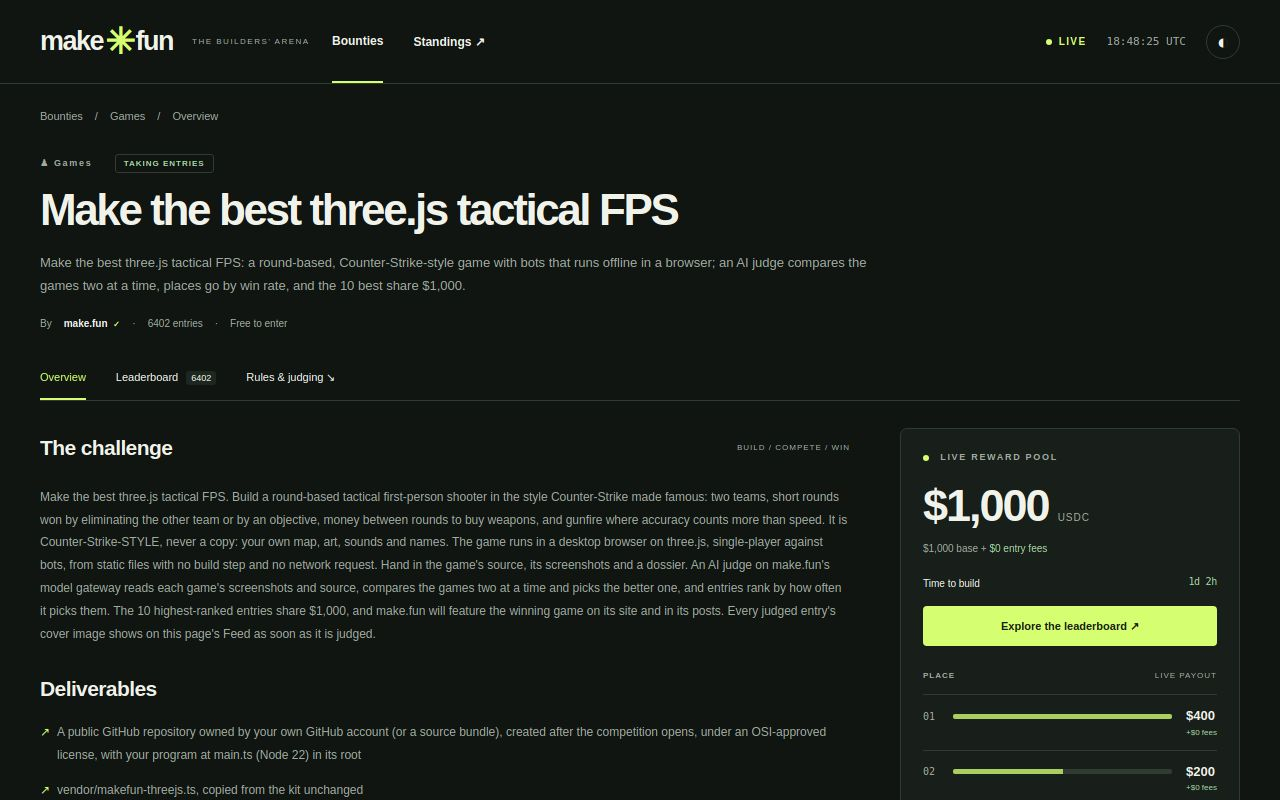
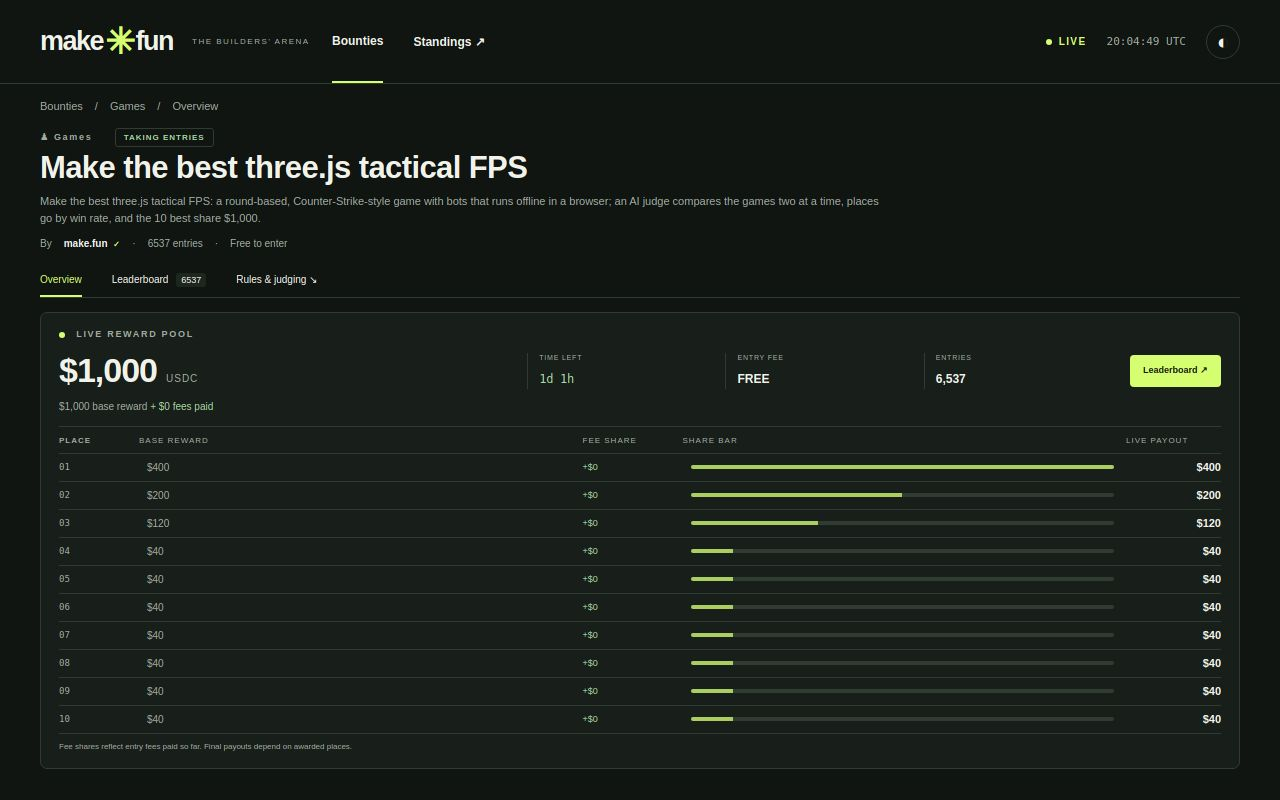
Polish for top 20: dense board + fee breakdowns

diff --git a/app/style.css b/app/style.css
@@ -1,3 +1,14 @@
 :root{color-scheme:dark;--bg:#101512;--panel:#181f1a;--panel2:#1d261f;--line:#303b32;--text:#f1f3eb;--muted:#a1aca1;--accent:#d5ff70;--ink:#15200e;--green:#a8d7a4;--red:#ff9790;--amber:#f2cd83}*{box-sizing:border-box}html{scroll-behavior:smooth}body{margin:0;background:var(--bg);color:var(--text);font:14px/1.5 Arial,Helvetica,sans-serif}a{color:inherit;text-decoration:none}button,input,select{font:inherit}button,a,input,select{-webkit-tap-highlight-color:transparent}button,select{cursor:pointer}button{color:var(--text);background:transparent;border:1px solid var(--line);padding:9px 14px;border-radius:5px}button:hover,a:hover{color:var(--accent)}button:disabled{opacity:.35;cursor:default}a:focus-visible,button:focus-visible,input:focus-visible,select:focus-visible{outline:2px solid var(--accent);outline-offset:4px}.skip{position:fixed;top:-70px;z-index:10;padding:10px;background:var(--accent);color:var(--ink)}.skip:focus{top:8px}header{height:84px;display:flex;align-items:center;gap:65px;padding:0 40px;border-bottom:1px solid var(--line)}.brand{display:flex;align-items:center;gap:2px;font-size:27px;font-weight:900;letter-spacing:-1.5px;white-space:nowrap}.brand>span{color:var(--accent);font-size:36px;line-height:1}.brand small{font-size:8px;font-weight:500;letter-spacing:1.5px;max-width:75px;line-height:1.7;margin-left:17px;color:var(--muted)}header nav{height:100%;display:flex;align-items:center;gap:30px;font-size:12px;font-weight:bold}header nav a{height:100%;display:flex;align-items:center}header nav .nav-board{border-bottom:2px solid var(--accent)}.header-right{display:flex;gap:20px;align-items:center;margin-left:auto}.live{color:var(--accent);font-size:10px;letter-spacing:1.4px;font-weight:bold;white-space:nowrap}.live:before,.dot{content:'';display:inline-block;width:6px;height:6px;background:var(--accent);border-radius:50%;margin-right:7px;vertical-align:middle}#clock{font:11px monospace;color:var(--muted)}#theme{width:34px;height:34px;border-radius:50%;padding:0;font-size:21px}main{max-width:1440px;margin:auto;padding:0 40px 60px}.hero{display:flex;justify-content:space-between;align-items:center;padding:33px 0 29px}.eyebrow{font-size:9px;font-weight:bold;letter-spacing:1.7px;color:var(--muted)}h1,h2,h3,p{margin:0}h1{font-size:49px;letter-spacing:-2.4px;line-height:1.06;margin:16px 0}h1>span{color:var(--accent)}.hero p{font-size:13px;color:var(--muted);margin-top:19px}.hero-mark{display:flex;flex-direction:column;align-items:center;justify-content:center;gap:12px;width:230px;font-size:140px;line-height:1;color:var(--accent)}.hero-mark span{font-size:8px;letter-spacing:1.4px;line-height:1.6;text-align:center;color:var(--text)}.stats{display:grid;grid-template-columns:repeat(4,1fr);border:1px solid var(--line);border-radius:7px;background:var(--panel)}.stats>div{padding:17px 23px;border-right:1px solid var(--line)}.stats>div:last-child{border:0}.stats small{display:block;font-size:9px;letter-spacing:1.4px;color:var(--muted);margin-bottom:5px}.stats strong{display:block;font-size:27px;letter-spacing:-.8px;line-height:1.3}.stats em{font-weight:normal;font-size:10px;letter-spacing:0;color:var(--muted);font-style:normal;margin-left:5px}.stats .time{font-size:23px;background:none;padding:0}.ticker{display:flex;align-items:center;gap:20px;padding:15px 0;border-bottom:1px solid var(--line);font-size:10px;min-height:47px}.ticker b{font-size:10px;font-weight:500}.ticker-event{color:var(--muted);white-space:nowrap;overflow:hidden;text-overflow:ellipsis}.ticker-event a{color:var(--text)}.ticker-end{margin-left:auto;font-size:8px;letter-spacing:1.1px;white-space:nowrap;color:var(--muted)}.workspace{display:grid;grid-template-columns:minmax(0,1fr) 256px;gap:26px;padding-top:26px}.section-title{display:flex;align-items:center;justify-content:space-between;margin-bottom:18px;gap:12px}.section-title h2{font-size:21px;letter-spacing:-.6px}.section-title h2>span{color:var(--accent);margin-left:16px}.section-title>span{font-size:10px;color:var(--muted)}.categories{display:flex;gap:7px;margin-bottom:16px;overflow:auto;scrollbar-width:none}.categories button{font-size:10px;border-radius:30px;padding:6px 13px;white-space:nowrap}.active{color:var(--ink)!important;background:var(--accent)!important;border-color:var(--accent)!important}.toolbar{display:flex;gap:10px;align-items:center;margin-bottom:15px}.search{display:flex;align-items:center;gap:8px;border:1px solid var(--line);background:var(--panel);padding:7px 12px;border-radius:5px;flex:1;min-width:100px}.search span{font-size:20px;color:var(--muted);line-height:1}input{width:100%;min-width:0;border:0;outline:none;background:transparent;color:var(--text);font-size:11px}input::placeholder{color:var(--muted)}.fee-pills{display:flex;border:1px solid var(--line);padding:3px;border-radius:5px}.fee-pills button{font-size:9px;text-transform:uppercase;padding:5px 8px;border:0;border-radius:3px}select{padding:9px 10px;color:var(--text);background:var(--panel);border:1px solid var(--line);border-radius:5px;font-size:10px}.cards{display:grid;grid-template-columns:repeat(2,minmax(0,1fr));gap:14px}.card{border:1px solid var(--line);background:var(--panel);border-radius:7px;padding:17px 18px 0;transition:border-color .15s}.card:hover{border-color:#6e825c}.card-top{display:flex;align-items:center;justify-content:space-between;gap:8px;margin-bottom:12px}.category{font-size:9px;color:var(--accent);letter-spacing:.4px}.serial{font:8px monospace;letter-spacing:1px;color:var(--muted)}.tag{font-size:7px;letter-spacing:.6px;background:var(--accent);color:var(--ink);padding:3px 6px;border-radius:2px}.card h3{font-size:18px;line-height:1.3;letter-spacing:-.4px;min-height:47px}.card h3 a{display:block}.card h3 span{color:var(--muted);font-size:15px}.card>p{color:var(--muted);font-size:10px;line-height:1.6;margin:8px 0 17px;display:-webkit-box;-webkit-line-clamp:2;-webkit-box-orient:vertical;overflow:hidden;min-height:32px}.pot-line{display:flex;align-items:center;gap:12px;margin-bottom:17px}.pot-line>strong{font-size:29px;letter-spacing:-1px}.pot-line>span{font-size:9px;color:var(--muted);line-height:1.6}.pot-line em{display:block;color:var(--green);font-style:normal;font-size:8px}.card-meta{display:flex;justify-content:space-between;gap:4px;align-items:center;font-size:9px;color:var(--muted)}.card-meta b{color:var(--green);font-size:8px;font-weight:500}.time{font:10px monospace;white-space:nowrap;letter-spacing:-.3px}.green{color:var(--green)}.red{color:var(--red)}.amber{color:var(--amber)}.progress{height:3px;background:var(--line);margin:11px 0 0;border-radius:2px;overflow:hidden}.progress i{display:block;height:100%;background:currentColor}.card-bottom{display:flex;justify-content:space-between;padding:11px 0;color:var(--muted);font-size:8px}.card-bottom a{color:var(--text)}.verified{font-size:8px;color:var(--accent);margin-left:3px}.panel{padding:19px;border:1px solid var(--line);background:var(--panel);border-radius:7px}.panel>.eyebrow{font-size:7px;letter-spacing:1px}.panel h2{font-size:19px;letter-spacing:-.5px;margin:8px 0 14px}.panel h2>span{float:right;color:var(--muted)}.builder{display:flex;align-items:center;gap:10px;padding:13px 0;border-top:1px solid var(--line)}.rank{font:9px monospace;color:var(--muted)}img,.avatar{border-radius:50%;object-fit:cover;background:var(--panel2);flex-shrink:0}.avatar{display:inline-flex;width:32px;height:32px;align-items:center;justify-content:center;font-size:10px;color:var(--accent);border:1px solid var(--line)}.builder img{width:30px;height:30px}.builder b{display:block;font-size:10px;max-width:130px;overflow:hidden;text-overflow:ellipsis}.builder small{display:block;color:var(--muted);font-size:8px;margin-top:2px}.arrow{margin-left:auto;color:var(--muted);font-size:12px}.manifesto{margin-top:18px;padding:20px;background:var(--accent);color:var(--ink);border-radius:7px;overflow:hidden;position:relative}.manifesto>span{font-size:7px;letter-spacing:1px}.manifesto h2{font-size:31px;line-height:1.04;letter-spacing:-1.2px;margin:20px 0 12px}.manifesto p{font-size:10px;line-height:1.6;max-width:185px}.manifesto a{display:block;font-size:9px;font-weight:bold;margin-top:22px;position:relative;z-index:1}.manifesto a:hover{color:var(--ink);text-decoration:underline}.graphic{font-size:120px;line-height:.9;font-weight:bold;text-align:right;opacity:.15;margin-top:-45px}.load-more{display:block;width:100%;margin:22px 0 0;font-size:11px}.load-more[hidden]{display:none}footer{padding:25px 40px;border-top:1px solid var(--line);display:flex;align-items:center;gap:30px;color:var(--muted);font-size:10px}footer .brand{font-size:20px;color:var(--text)}footer .brand span{font-size:26px}footer>span:last-child{margin-left:auto}.breadcrumbs{display:flex;gap:12px;padding-top:24px;color:var(--muted);font-size:11px}.detail-head{max-width:940px;padding:32px 0 26px}.detail-head h1{font-size:44px;max-width:850px;margin:17px 0}.detail-head>p{font-size:13px;color:var(--muted);max-width:850px;line-height:1.8}.status{font-size:8px;letter-spacing:1px;margin-left:18px;padding:4px 8px;border:1px solid var(--line);border-radius:3px}.sponsor{display:flex;gap:12px;align-items:center;margin-top:19px;font-size:10px;color:var(--muted)}.sponsor b{color:var(--text)}.tabs{display:flex;gap:30px;border-bottom:1px solid var(--line);margin-bottom:27px}.tabs a{padding:12px 0;font-size:11px;border-bottom:2px solid transparent}.tabs a.active{color:var(--accent)!important;background:transparent!important;border-bottom-color:var(--accent)!important}.tabs a>span{font-size:9px;background:var(--panel2);padding:2px 5px;border-radius:3px;margin-left:5px}.detail-grid{display:grid;grid-template-columns:minmax(0,1fr) 340px;gap:50px}.prose{font-size:12px;line-height:1.9;color:var(--muted)}.prose h2{font-size:21px;letter-spacing:-.6px;margin:24px 0 12px;color:var(--text)}.prose h3{color:var(--text);margin:20px 0 10px}.prose p{margin-bottom:12px}.prose .section-title h2{margin:0}.prose .section-title>span{font-size:8px;letter-spacing:1px}.bullet{padding-left:17px;position:relative}.bullet:before{content:'↗';position:absolute;left:0;color:var(--accent)}code{font:11px monospace;background:var(--panel);padding:2px 4px;border-radius:3px}.reward-panel{padding:22px;background:var(--panel);border:1px solid var(--line);border-radius:7px}.big-pot{font-size:45px;font-weight:bold;letter-spacing:-2px;margin:8px 0 1px}.big-pot>span{font-size:10px;color:var(--muted);letter-spacing:1px;margin-left:9px;font-weight:normal}.reward-panel>p{font-size:10px;color:var(--muted)}.reward-panel>p b{color:var(--green);font-weight:normal}.deadline-row{display:flex;justify-content:space-between;margin:20px 0 15px;font-size:10px}.primary{display:block;text-align:center;padding:12px;background:var(--accent);color:var(--ink);border-radius:4px;font-weight:bold;font-size:11px}.primary:hover{color:var(--ink);filter:brightness(1.07)}.reward-label{display:flex;justify-content:space-between;color:var(--muted);font-size:8px;letter-spacing:1px;margin-top:24px;padding-bottom:12px;border-bottom:1px solid var(--line)}.reward{display:grid;grid-template-columns:20px 1fr auto;gap:10px;align-items:center;border-bottom:1px solid var(--line);padding:11px 0;position:relative}.reward>span{font:10px monospace;color:var(--muted)}.reward>div{height:5px;background:var(--line);border-radius:2px;overflow:hidden;margin-right:4px}.reward i{display:block;height:100%;background:var(--accent);opacity:.75}.reward strong{font-size:13px}.reward small{grid-column:3;font-size:8px;color:var(--green);margin-top:-9px;text-align:right}.reward-note{display:block;font-size:9px;color:var(--muted);margin-top:15px}.dates{margin-top:18px}.dates h3{font-size:14px;margin-bottom:20px}.dates>small{font-size:8px;letter-spacing:1px;color:var(--muted)}.dates p{font-size:11px;margin:4px 0 15px}.standings{max-width:1000px;margin:auto}.standings>.section-title{margin:28px 0 20px}.standings h2{font-size:28px}.standings .eyebrow{margin-bottom:7px;font-size:8px}.phase-switch{display:flex;border:1px solid var(--line);padding:3px;border-radius:5px}.phase-switch a{padding:6px 12px;font-size:10px;border-radius:3px}.board-note{display:flex;align-items:center;padding:13px 16px;background:var(--panel);border:1px solid var(--line);border-radius:5px;color:var(--muted);font-size:10px}.board-note>span:last-child{margin-left:auto;color:var(--accent)}.leader-label{display:grid;grid-template-columns:65px 1fr 150px;padding:20px 16px 10px;font-size:8px;letter-spacing:1px;color:var(--muted)}.leader-label>span:last-child{text-align:right}.leader-row{display:grid;grid-template-columns:65px minmax(0,1fr) 150px;align-items:center;padding:19px 16px;border-bottom:1px solid var(--line)}.place{font:18px monospace;color:var(--muted)}.place.podium{color:var(--accent)}.entrant{display:flex;align-items:center;gap:14px;min-width:0}.entrant>div{min-width:0}.entrant a{font-size:12px;font-weight:bold}.entrant p{font-size:10px;color:var(--muted);margin-top:5px;white-space:nowrap;overflow:hidden;text-overflow:ellipsis;max-width:580px}.entrant small{font-size:8px;color:var(--muted)}.leader-row>strong{text-align:right;font:19px monospace;letter-spacing:-.5px}.leader-row>strong small{display:block;font:8px Arial;color:var(--muted);letter-spacing:0;margin-top:5px}.pagination{display:flex;justify-content:space-between;align-items:center;gap:12px;padding-top:23px;font-size:10px;color:var(--muted)}.pagination button{font-size:10px}.profile-head{display:flex;gap:25px;align-items:center;padding:45px 0}.profile-head>img,.profile-head>.avatar{width:90px;height:90px;font-size:24px}.profile-head h1{margin:10px 0;font-size:40px}.profile-head p{font-size:12px;color:var(--muted)}.profile-head+.stats{margin-bottom:40px}.solution{display:flex;justify-content:space-between;gap:25px;border-bottom:1px solid var(--line);padding:25px 0}.solution h3{font-size:18px;margin:8px 0}.solution p{font-size:12px;color:var(--muted);margin-bottom:8px}.solution small{font-size:10px;color:var(--muted)}.solution>div:last-child{min-width:140px;text-align:right}.solution strong{display:block;font:22px monospace;margin-top:22px}.solution>div>a{display:block;font-size:10px;margin-top:12px;color:var(--accent)}.empty,.loading{padding:80px 20px;text-align:center;color:var(--muted)}.empty h1{font-size:32px}.empty p{margin:15px}.loading>span{display:block;color:var(--accent);font-size:60px;margin-top:25px}.empty{grid-column:1/-1}html[data-theme=light]{color-scheme:light;--bg:#f4f4ed;--panel:#fffef8;--panel2:#eceee3;--line:#d4d8c9;--text:#19251b;--muted:#647060;--accent:#416b16;--ink:#fff;--green:#416e34;--red:#b13c34;--amber:#90630d}html[data-theme=light] .manifesto{background:#d5f59a;color:#17250d}html[data-theme=light] .tag,html[data-theme=light] .primary,html[data-theme=light] button.active{background:#d5f59a!important;color:#17250d!important}html[data-theme=light] .hero-mark{color:#9bc84c}@media(min-width:1450px){header,footer{padding-left:max(40px,calc((100vw - 1360px)/2));padding-right:max(40px,calc((100vw - 1360px)/2))}}@media(max-width:1050px){header{gap:35px;padding:0 24px}main{padding:0 24px 40px}.workspace{grid-template-columns:minmax(0,1fr) 230px;gap:18px}.card{padding:14px 14px 0}.card h3{font-size:16px}.toolbar{flex-wrap:wrap}.search{flex-basis:40%}.stats>div{padding:15px}.stats strong{font-size:23px}.stats em{display:block;margin:0}.detail-grid{gap:26px;grid-template-columns:minmax(0,1fr) 310px}}@media(max-width:780px){header{height:70px;gap:30px}.brand small{display:none}.header-right{gap:10px}#clock{display:none}.hero h1{font-size:41px}.hero-mark{font-size:130px;width:160px}.workspace{grid-template-columns:1fr}aside#sidebar{display:grid;grid-template-columns:1fr 1fr;gap:16px}.manifesto{margin-top:0}.stats strong{font-size:22px}.stats .time{font-size:18px}.detail-head h1{font-size:36px}.detail-grid{grid-template-columns:1fr}.detail-grid>aside{grid-row:1;display:grid;grid-template-columns:1fr 1fr;gap:15px;align-items:start}.dates{margin-top:0}.reward:nth-of-type(n+9){display:none}.ticker-end{display:none}footer{padding:22px 24px}footer>span:last-child{display:none}}@media(max-width:520px){header{padding:0 18px;gap:22px;height:65px}.brand{font-size:23px}.brand>span{font-size:30px}header nav{gap:16px;font-size:10px}header nav a:last-child{display:none}.header-right>.live{font-size:8px}#theme{width:28px;height:28px;font-size:18px}main{padding:0 18px 35px}.hero{padding:28px 0 25px}.hero h1{font-size:37px;letter-spacing:-1.7px;margin-top:16px}.eyebrow{font-size:7px;letter-spacing:1.2px}.hero p{font-size:11px;margin-top:15px}.hero-mark{display:none}.stats{grid-template-columns:1fr 1fr}.stats>div{padding:14px 15px}.stats>div:nth-child(2){border-right:0}.stats>div:nth-child(-n+2){border-bottom:1px solid var(--line)}.stats small{font-size:8px;letter-spacing:1px}.stats strong{font-size:24px}.stats em{display:inline;font-size:8px;margin-left:4px}.stats .time{font-size:20px}.ticker{gap:10px;flex-wrap:wrap;padding:13px 0;font-size:9px}.ticker .live{font-size:8px}.ticker b{font-size:9px}.ticker-event{flex-basis:100%;font-size:9px}.workspace{padding-top:23px}.section-title h2{font-size:20px}.section-title>span{font-size:8px}.section-title h2>span{margin-left:6px}.categories{gap:6px;margin-bottom:13px}.categories button{font-size:10px;padding:6px 12px}.toolbar{gap:8px;margin-bottom:13px}.search{flex-basis:100%;padding:11px 12px}.fee-pills{margin-right:auto}select{padding:9px 12px}.cards{grid-template-columns:1fr;gap:14px}.card{padding:18px 18px 0}.card h3{font-size:20px;min-height:0}.card>p{font-size:11px;margin:10px 0 17px}.category{font-size:10px}.serial{font-size:8px}.pot-line>strong{font-size:32px}.card-meta{font-size:10px}.card .time{font-size:10px}.card-bottom{font-size:9px;padding:13px 0}.pot-line>span{font-size:10px}.pot-line em{font-size:9px}aside#sidebar{grid-template-columns:1fr}.manifesto{display:none}.builder b{font-size:12px}.builder small{font-size:10px}.builder{padding:14px 0}footer{gap:20px;padding:20px 18px;font-size:8px}.breadcrumbs{font-size:9px;padding-top:20px}.detail-head{padding:25px 0 20px}.detail-head h1{font-size:34px;letter-spacing:-1.3px;line-height:1.1;margin:16px 0}.detail-head>p{font-size:11px;line-height:1.75}.sponsor{flex-wrap:wrap;font-size:9px;gap:8px}.tabs{gap:24px;margin-bottom:20px}.tabs a{font-size:10px}.tabs a:last-child{margin-left:auto}.tabs a>span{font-size:8px}.detail-grid>aside{display:block}.reward-panel{padding:20px}.dates{margin-top:15px}.prose{font-size:12px}.prose .section-title>span{display:none}.standings>.section-title{align-items:flex-start;margin-top:24px}.standings h2{font-size:26px}.standings .eyebrow{font-size:7px;max-width:150px}.phase-switch a{padding:6px 8px;font-size:8px}.board-note{padding:11px 10px;font-size:8px;gap:0}.board-note>span:last-child{font-size:8px;white-space:nowrap}.leader-label{grid-template-columns:35px 1fr 80px;padding:18px 0 9px;font-size:7px}.leader-row{grid-template-columns:35px minmax(0,1fr) 80px;padding:17px 0}.place{font-size:16px}.entrant{gap:9px}.entrant img,.entrant .avatar{width:28px;height:28px}.entrant a{font-size:10px}.entrant p{font-size:9px;max-width:165px;margin-top:4px}.leader-row>strong{font-size:17px}.leader-row>strong small{font-size:7px;margin-top:5px}.pagination{font-size:8px}.pagination button{font-size:9px;padding:7px 9px}.profile-head{padding:30px 0;gap:16px}.profile-head h1{font-size:28px;letter-spacing:-1px}.profile-head>img,.profile-head>.avatar{width:64px;height:64px}.profile-head p{font-size:10px}.solution{display:block;padding:21px 0}.solution h3{font-size:17px}.solution>div:last-child{display:flex;justify-content:space-between;align-items:center;text-align:left}.solution strong{font-size:18px;margin-top:12px}.solution p{font-size:11px}.profile-head+.stats{margin-bottom:28px}}@media(prefers-reduced-motion:reduce){html{scroll-behavior:auto}*{transition:none!important}}
 /* Keep the hero mark caption clear of the graphic. */
 .hero-mark{gap:24px;font-size:132px}
+.board-head{display:flex;align-items:center;justify-content:space-between;padding:13px 0 10px}.board-head h1{font-size:23px;letter-spacing:0;margin:5px 0 0}.board-head-note{font-size:10px;color:var(--muted)}
+.cards{display:block}
+.stats{border-radius:4px}.stats>div{padding:8px 15px}.stats small{font-size:7px;margin-bottom:2px}.stats strong{font-size:18px;line-height:1.2}.stats em{font-size:8px}.stats .time{font-size:14px}
+.ticker{min-height:31px;padding:7px 0;gap:13px;font-size:9px}.ticker-end{font-size:7px}
+.board-work{padding-top:10px}.board-tools>.section-title{margin:0 0 7px}.board-tools .section-title h2{font-size:15px}.board-tools .section-title>span{font-size:9px}.board-tools>.search{height:31px;margin-bottom:7px;padding-top:4px;padding-bottom:4px}.board-tools .toolbar{margin:0 0 5px;display:flex;align-items:center;justify-content:space-between}.board-tools .categories{margin:0;gap:5px;max-width:70%;overflow-x:auto}.board-tools .categories button{padding:4px 9px;font-size:9px}.filter-actions{display:flex;gap:7px;align-items:center}.filter-actions select{padding:6px 8px;font-size:9px}.filter-actions .fee-pills{padding:2px}.filter-actions .fee-pills button{padding:4px 7px;font-size:8px}
+.table-label,.board-row{display:grid;grid-template-columns:112px minmax(220px,1fr) 170px 90px 75px 22px;align-items:center;gap:14px}.table-label{padding:7px 12px;border-bottom:1px solid var(--line);font-size:7px;letter-spacing:1px;color:var(--muted)}.table-label span:nth-child(n+3){text-align:right}.board-row{min-height:48px;padding:5px 12px;border-bottom:1px solid var(--line);background:var(--panel);transition:background .15s}.board-row:hover{background:var(--panel2)}.row-pot{font-size:16px;color:var(--green);white-space:nowrap}.row-pot small,.row-fee small,.row-entries small,.row-title small{display:block;font-size:8px;font-weight:normal;color:var(--muted);margin-top:2px}.row-title{min-width:0}.row-title b{display:block;font-size:11px;white-space:nowrap;overflow:hidden;text-overflow:ellipsis}.row-title small{white-space:nowrap;overflow:hidden;text-overflow:ellipsis}.row-time{text-align:right}.row-time .time{font-size:9px}.row-time .progress{display:block;height:3px;margin:4px 0 0 auto;width:88px;background:var(--line)}.row-time .progress b{display:block;height:100%;background:var(--accent)}.row-time .progress b.red{background:var(--red)}.row-time .progress b.amber{background:var(--amber)}.row-fee,.row-entries{text-align:right;font-size:10px;white-space:nowrap}.row-arrow{color:var(--muted);text-align:right;font-size:12px}.board-work>.load-more{padding:8px;margin-top:10px;font-size:9px}.board-work .empty{padding:25px}
+.detail-head{padding:16px 0 13px}.detail-head h1{font-size:31px;letter-spacing:-.6px;margin:8px 0}.detail-head>p{font-size:11px;line-height:1.55}.sponsor{margin-top:9px}.breadcrumbs{padding-top:14px}.tabs{margin-bottom:14px}.tabs a{padding:8px 0;font-size:10px}
+.reward-overview{padding:15px 18px;margin-bottom:17px}.reward-summary{display:grid;grid-template-columns:minmax(220px,1fr) 1.3fr auto;align-items:center;gap:20px;padding-bottom:12px;border-bottom:1px solid var(--line)}.reward-summary .big-pot{font-size:34px;letter-spacing:-1px;margin:3px 0}.fee-equation{font-size:10px;color:var(--muted)}.fee-equation b{color:var(--green);font-weight:normal}.quick-facts{display:grid;grid-template-columns:repeat(3,minmax(70px,1fr));gap:12px}.quick-facts>div{border-left:1px solid var(--line);padding-left:11px}.quick-facts small{display:block;font-size:7px;letter-spacing:.8px;color:var(--muted);margin-bottom:4px}.quick-facts strong,.quick-facts .time{font-size:12px}.reward-summary .primary{padding:9px 13px;white-space:nowrap;font-size:9px}.reward-overview .reward-label{display:grid;grid-template-columns:80px 1fr 100px 1fr 95px;align-items:center;margin-top:8px;padding-bottom:6px}.reward-overview .reward{display:grid;grid-template-columns:80px 1fr 100px 1fr 95px;padding:5px 0;gap:8px;min-height:28px}.reward-overview .reward>span{font-size:9px}.reward-overview .reward-base{font-size:10px;font-weight:normal;color:var(--muted)}.reward-overview .reward-fee{grid-column:auto;margin:0;text-align:left;font-size:9px;color:var(--green)}.reward-overview .reward-bar{height:4px;background:var(--line);overflow:hidden}.reward-overview .reward-bar i{display:block;height:100%;background:var(--accent)}.reward-overview .reward>strong:last-child{text-align:right;font-size:11px}.reward-overview .reward-note{margin-top:7px;font-size:8px}.detail-grid{grid-template-columns:minmax(0,1fr) 250px;gap:30px}.detail-grid .prose h2{margin-top:10px}
+.leader-row{padding:11px 14px}.leader-label{padding:12px 14px 7px}.standings>.section-title{margin:17px 0 12px}.standings h2{font-size:23px}.entrant{gap:10px}
+@media(max-width:780px){.table-label,.board-row{grid-template-columns:85px minmax(150px,1fr) 115px 65px 54px;gap:8px}.table-label span:last-child,.row-arrow{display:none}.row-pot{font-size:13px}.row-time .progress{width:70px}.reward-summary{grid-template-columns:1fr 1fr}.reward-summary .primary{justify-self:start}.detail-grid{grid-template-columns:1fr}.detail-grid>aside{grid-row:auto;display:block}.reward-overview .reward-label,.reward-overview .reward{grid-template-columns:58px 1fr 70px 1fr 75px}.reward:nth-of-type(n+9){display:grid}}
+@media(max-width:520px){.board-head{padding:10px 0 8px}.board-head h1{font-size:20px}.board-head-note{font-size:8px}.stats>div{padding:8px 9px}.stats strong{font-size:16px}.stats em{display:block;margin:2px 0 0}.stats .time{font-size:12px}.ticker{font-size:8px}.ticker-end{display:none}.board-work{padding-top:8px}.board-tools>.section-title h2{font-size:14px}.board-tools>.search{height:34px}.board-tools .toolbar{align-items:flex-start;flex-direction:column;gap:6px}.board-tools .categories{max-width:100%;width:100%}.filter-actions{width:100%;justify-content:space-between}.table-label,.board-row{grid-template-columns:65px minmax(100px,1fr) 75px 45px;gap:5px}.table-label span:nth-child(5),.row-entries{display:none}.table-label{padding:6px 5px;font-size:6px}.board-row{padding:5px;min-height:48px}.row-pot{font-size:11px}.row-pot small{font-size:7px}.row-title b{font-size:9px}.row-title small{font-size:7px}.row-time .time{font-size:8px}.row-time .progress{width:56px}.row-fee{font-size:8px}.row-fee small{font-size:6px}.detail-head{padding:14px 0 10px}.detail-head h1{font-size:25px}.detail-head>p{font-size:10px}.sponsor{font-size:8px}.tabs{gap:18px}.reward-overview{padding:12px 10px}.reward-summary{grid-template-columns:1fr;gap:10px}.reward-summary .big-pot{font-size:30px}.quick-facts{gap:5px}.quick-facts>div{padding-left:7px}.quick-facts .time,.quick-facts strong{font-size:10px}.reward-summary .primary{justify-self:stretch}.reward-overview .reward-label,.reward-overview .reward{grid-template-columns:45px 1fr 65px 1fr 65px;gap:4px}.reward-overview .reward-label{font-size:6px}.reward-overview .reward>strong:last-child{font-size:9px}.reward-overview .reward-fee,.reward-overview .reward-base{font-size:8px}.detail-grid{gap:15px}.detail-grid .prose{font-size:11px}.leader-label{grid-template-columns:30px 1fr 72px;padding:10px 0 7px}.leader-row{grid-template-columns:30px minmax(0,1fr) 72px;padding:10px 0}.entrant{gap:7px}.entrant img,.entrant .avatar{width:25px;height:25px}.entrant a{font-size:9px}.entrant p{font-size:8px}.leader-row>strong{font-size:14px}}

diff --git a/app/main.js b/app/main.js
@@ -26,18 +26,18 @@ function renderCards() {
  items.sort((a,b)=>sort==='pot'?pot(b)-pot(a):sort==='closing'?Date.parse(a.deadline)-Date.parse(b.deadline):sort==='entries'?b.submissionCount-a.submissionCount:(b.slug==='makefun-frontend-01')-(a.slug==='makefun-frontend-01')||pot(b)-pot(a));
  document.querySelector('#results-count').textContent=`${items.length} live bounties`;
  const liveItems=boardItems.filter(open), max=liveItems.length?Math.max(...liveItems.map(pot)):0;
- document.querySelector('#cards').innerHTML=items.slice(0,page*6).map((b,i)=>card(b,i,max)).join('')||'<div class="empty">No bounties match. Try another category or search.</div>';
+ document.querySelector('#cards').innerHTML=items.slice(0,page*20).map((b,i)=>`<a class="board-row" href="${url(b)}"><strong class="row-pot">${money(pot(b))}<small>${Number(b.entryFeesUsd)>0?'+'+money(b.entryFeesUsd)+' fees':'live pot'}</small></strong><span class="row-title"><b>${esc(b.title)}</b><small>${esc(b.category)} · ${esc(b.summary||'Live competition')}</small></span><span class="row-time"><span>${timer(b.deadline)}</span><i class="progress"><b class="${urgency(b.deadline)}" style="width:${Math.max(2,Math.min(100,(Date.now()-Date.parse(b.publishedAt))/(Date.parse(b.deadline)-Date.parse(b.publishedAt))*100))}%"></b></i></span><span class="row-fee">${Number(b.entryFeeUsd)?money(b.entryFeeUsd):'FREE'}<small>entry fee</small></span><span class="row-entries">${Number(b.submissionCount||0).toLocaleString()}<small>entries</small></span><span class="row-arrow">↗</span></a>`).join('')||'<div class="empty">No bounties match. Try another category or search.</div>';
  document.querySelector('#more').hidden=items.length<=page*6;
 }
 async function board() {
  const data=await get('/competitions?status=open&activity=times&limit=100'); boardItems=data.items;
  while(data.next_cursor){const next=await get('/competitions?status=open&activity=times&limit=100&cursor='+encodeURIComponent(data.next_cursor));boardItems.push(...next.items);data.next_cursor=next.next_cursor;}
- return `<section class="hero"><div><div class="eyebrow"><span class="dot"></span> THE OPEN COMPETITION NETWORK</div><h1>Good ideas deserve<br><span>a bigger arena.</span></h1><p>Pick a challenge. Build your best. Let the work win.</p></div><div class="hero-mark" aria-hidden="true">✳<span>MAKE SOMETHING<br>THAT MATTERS.</span></div></section>${stats(boardItems)}<div id="ticker" class="ticker"><span class="live">LIVE ACTIVITY</span><span>Reading the latest entries…</span></div><div class="workspace"><section><div class="section-title"><h2>Find your next challenge</h2><span id="results-count"></span></div><div class="categories">${['All','Code','Games','Growth','Trading','Forecasting','Security','Automation'].map(c=>`<button data-category="${c}" class="${filter===c?'active':''}">${c}</button>`).join('')}</div><div class="toolbar"><label class="search"><span>⌕</span><input id="search" type="search" placeholder="Search bounties, skills…" value="${esc(search)}" aria-label="Search bounties"></label><div class="fee-pills">${['all','free','paid'].map(f=>`<button data-fee="${f}" class="${feeFilter===f?'active':''}">${f}</button>`).join('')}</div><select id="sort" aria-label="Sort bounties"><option value="featured">Featured first</option><option value="pot">Largest pot</option><option value="closing">Closing soon</option><option value="entries">Most entries</option></select></div><div class="cards" id="cards"></div><button class="load-more" id="more">Show more bounties ↓</button></section><aside id="sidebar"><div class="panel"><div class="eyebrow">THE PEOPLE BEHIND THE BUILDS</div><h2>Top builders <span>↗</span></h2><div id="builders">Loading public records…</div></div><div class="manifesto"><span>01 — THE MAKE.FUN WAY</span><h2>Less talk.<br>More shipped.</h2><p>Real challenges. Transparent scores. Rewards for work that stands out.</p><a href="#/bounty/makefun-frontend-01">Explore the frontend challenge ↗</a><div class="graphic">↗</div></div></aside></div>`;
+ return `<section class="board-head"><div><div class="eyebrow"><span class="dot"></span> LIVE COMPETITIONS</div><h1>Open bounties</h1></div><span class="board-head-note">Build in public. Win on merit.</span></section>${stats(boardItems)}<div id="ticker" class="ticker"><span class="live">LIVE ACTIVITY</span><span>Reading the latest entries…</span></div><section class="board-work"><div class="board-tools"><div class="section-title"><h2>Taking entries</h2><span id="results-count"></span></div><label class="search"><span>⌕</span><input id="search" type="search" placeholder="Search bounties, skills…" value="${esc(search)}" aria-label="Search bounties"></label><div class="toolbar"><div class="categories">${['All','Code','Games','Growth','Trading','Forecasting','Security','Automation'].map(c=>`<button data-category="${c}" class="${filter===c?'active':''}">${c}</button>`).join('')}</div><div class="filter-actions"><div class="fee-pills">${['all','free','paid'].map(f=>`<button data-fee="${f}" class="${feeFilter===f?'active':''}">${f}</button>`).join('')}</div><select id="sort" aria-label="Sort bounties"><option value="featured">Featured</option><option value="pot">Largest pot</option><option value="closing">Closing soon</option><option value="entries">Most entries</option></select></div></div></div><div class="table-label"><span>LIVE POT</span><span>BOUNTY</span><span>TIME LEFT</span><span>ENTRY FEE</span><span>ENTRIES</span><span></span></div><div class="cards" id="cards"></div><button class="load-more" id="more">Show more bounties ↓</button></section>`;
 }
 async function extras(token) {
  const results=await Promise.allSettled([get('/rankings?limit=5'),get('/activity/entries')]);
  if(token!==generation)return;
- if(results[0].status==='fulfilled')document.querySelector('#builders').innerHTML=results[0].value.items.map((p,i)=>`<a class="builder" href="${profile(p.handle)}"><span class="rank">${String(i+1).padStart(2,'0')}</span>${avatar(p)}<span><b>${esc(p.handle)}</b><small>${p.record.competitions_won} wins · ${money(p.record.prize_usd)} won</small></span><span class="arrow">↗</span></a>`).join('');
+ if(results[0].status==='fulfilled'&&document.querySelector('#builders'))document.querySelector('#builders').innerHTML=results[0].value.items.map((p,i)=>`<a class="builder" href="${profile(p.handle)}"><span class="rank">${String(i+1).padStart(2,'0')}</span>${avatar(p)}<span><b>${esc(p.handle)}</b><small>${p.record.competitions_won} wins · ${money(p.record.prize_usd)} won</small></span><span class="arrow">↗</span></a>`).join('');
  if(results[1].status==='fulfilled'){const a=results[1].value,e=a.entries[0];document.querySelector('#ticker').innerHTML=`<span class="live">LIVE ACTIVITY</span><b>${a.total}${a.total>=100?'+':''} entries in the last hour</b>${e?`<span class="ticker-event"><a href="${profile(e.handle)}">@${esc(e.handle)}</a> entered <a href="#/bounty/${esc(e.competition.slug)}">${esc(e.competition.title)} ↗</a></span>`:''}<span class="ticker-end">THE ARENA NEVER SLEEPS</span>`;}
 }
 function markdown(text) {
@@ -49,7 +49,7 @@ function bountyHeader(b, active) {
 async function bounty(slug) {
  const b=await bountyData(slug);
  const rewards=b.rewardsNow||Object.entries(b.rewards||{}).map(([place,base])=>({place,baseUsd:base,feeShareUsd: Number(base)/Number(b.rewardAmount)*Number(b.entryFeesUsd||0),amountUsd:Number(base)/Number(b.rewardAmount)*pot(b)}));
- return bountyHeader(b,'overview')+`<div class="detail-grid"><article class="prose"><div class="section-title"><h2>The challenge</h2><span>BUILD / COMPETE / WIN</span></div>${markdown(b.description)}<section id="rules"><h2>Rules & judging</h2><p>${esc(b.resolution?.summary||'See the challenge requirements above.')}</p>${(b.resolution?.criteria||[]).map(c=>`<p class="bullet">${esc(c)}</p>`).join('')}<h3>How places are decided</h3><p>${esc(b.resolution?.tieBreak||'The competition’s published scoring rules apply.')}</p></section></article><aside><section class="reward-panel"><div class="eyebrow"><span class="dot"></span> LIVE REWARD POOL</div><div class="big-pot">${money(pot(b))}<span>USDC</span></div><p>${money(b.rewardAmount)} base + <b>${money(b.entryFeesUsd)} entry fees</b></p><div class="deadline-row"><span>${open(b)?'Time to build':'Deadline passed'}</span>${timer(b.deadline)}</div><a class="primary" href="${url(b)}/leaderboard">Explore the leaderboard ↗</a><div class="reward-label"><b>PLACE</b><span>LIVE PAYOUT</span></div>${rewards.map(r=>`<div class="reward"><span>${String(r.place).padStart(2,'0')}</span><div><i style="width:${Math.max(5,Number(r.amountUsd)/Number(rewards[0]?.amountUsd)*100)}%"></i></div><strong>${money(r.amountUsd)}</strong><small>+${money(r.feeShareUsd)} fees</small></div>`).join('')}<small class="reward-note">Includes the current fee split. Final payouts depend on awarded places.</small></section><section class="panel dates"><h3>Competition timeline</h3><small>OPENED</small><p>${date(b.publishedAt)}</p><small>ENTRY DEADLINE</small><p>${date(b.deadline)}</p><small>STATUS</small><p>${open(b)?'Open · accepting entries':b.status==='resolved'?'Resolved':'Closed · awaiting results'}</p></section></aside></div>`;
+ return bountyHeader(b,'overview')+`<section class="reward-panel reward-overview"><div class="reward-summary"><div><div class="eyebrow"><span class="dot"></span> LIVE REWARD POOL</div><div class="big-pot">${money(pot(b))}<span>USDC</span></div><p class="fee-equation">${money(b.rewardAmount)} base reward <b>+ ${money(b.entryFeesUsd)}${Number(b.entryFeeUsd)?` from ${Number(b.entryCount||b.submissionCount||0).toLocaleString()} entry fees`:' fees paid'}</b></p></div><div class="quick-facts"><div><small>TIME LEFT</small>${timer(b.deadline)}</div><div><small>ENTRY FEE</small><strong>${Number(b.entryFeeUsd)?money(b.entryFeeUsd):'FREE'}</strong></div><div><small>ENTRIES</small><strong>${Number(b.submissionCount||0).toLocaleString()}</strong></div></div><a class="primary" href="${url(b)}/leaderboard">Leaderboard ↗</a></div><div class="reward-label"><b>PLACE</b><span>BASE REWARD</span><span>FEE SHARE</span><span>SHARE BAR</span><span>LIVE PAYOUT</span></div>${rewards.map(r=>`<div class="reward"><span>${String(r.place).padStart(2,'0')}</span><strong class="reward-base">${money(r.baseUsd)}</strong><small class="reward-fee">+${money(r.feeShareUsd)}</small><div class="reward-bar"><i style="width:${Math.max(5,Number(r.amountUsd)/Number(rewards[0]?.amountUsd)*100)}%"></i></div><strong>${money(r.amountUsd)}</strong></div>`).join('')}<small class="reward-note">Fee shares reflect entry fees paid so far. Final payouts depend on awarded places.</small></section><div class="detail-grid"><article class="prose"><div class="section-title"><h2>The challenge</h2><span>BUILD / COMPETE / WIN</span></div>${markdown(b.description)}<section id="rules"><h2>Rules & judging</h2><p>${esc(b.resolution?.summary||'See the challenge requirements above.')}</p>${(b.resolution?.criteria||[]).map(c=>`<p class="bullet">${esc(c)}</p>`).join('')}<h3>How places are decided</h3><p>${esc(b.resolution?.tieBreak||'The competition’s published scoring rules apply.')}</p></section></article><aside><section class="panel dates"><h3>Competition timeline</h3><small>OPENED</small><p>${date(b.publishedAt)}</p><small>ENTRY DEADLINE</small><p>${date(b.deadline)}</p><small>STATUS</small><p>${open(b)?'Open · accepting entries':b.status==='resolved'?'Resolved':'Closed · awaiting results'}</p></section></aside></div>`;
 }
 let leaders=[],leaderPage=1, leaderBoard;
 function score(row, data) {const key=data.rank_key,v=row.values?.[key]??row.rank_key_value;return key==='judge'&&v!=null?(Number(v)/10000).toFixed(2)+'%':row.display?.[key]??row.rank_key_display??v??'—';}
